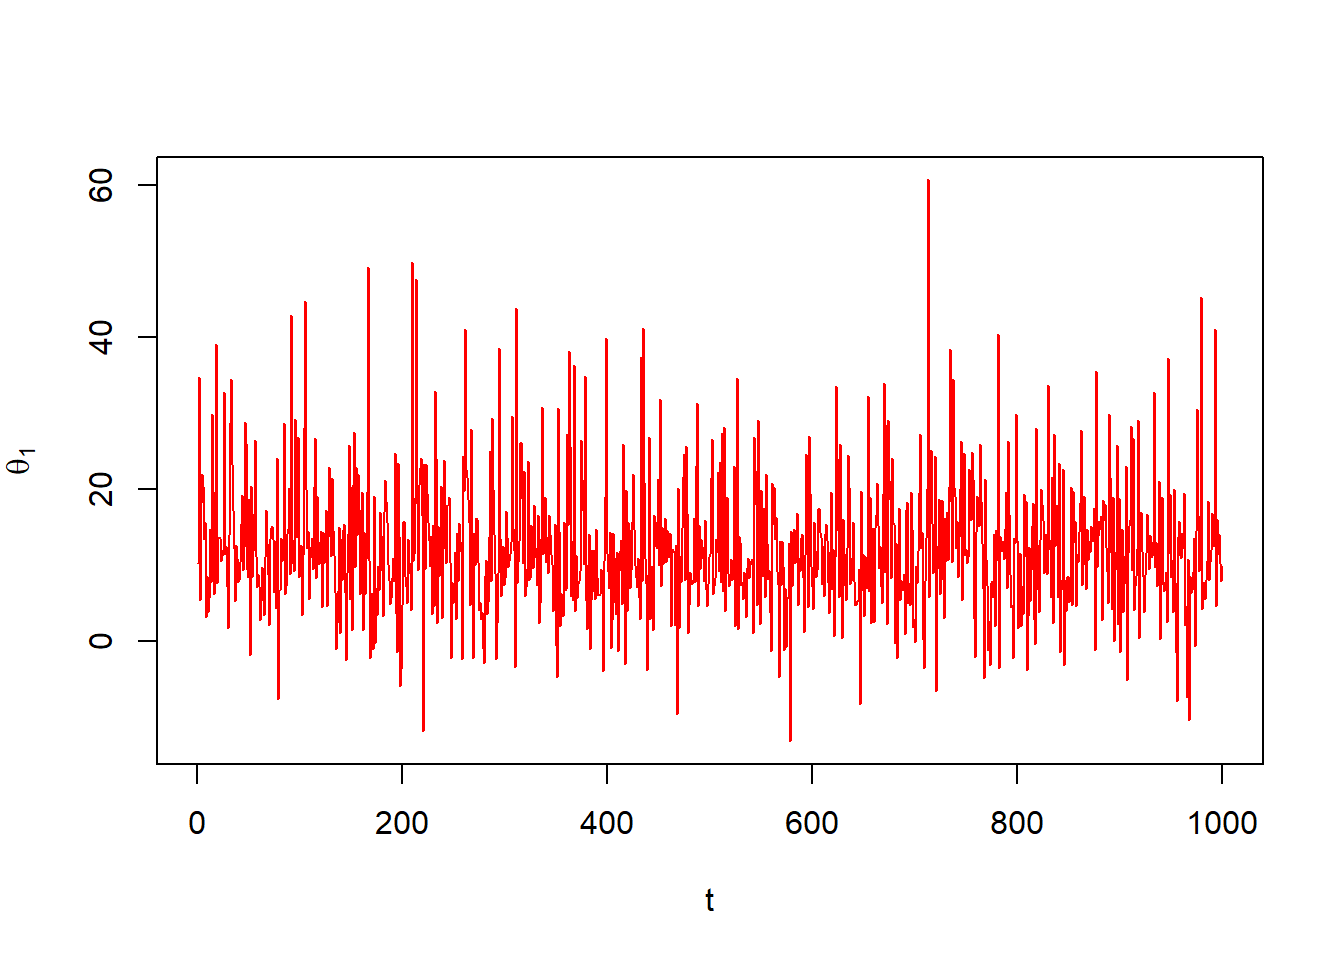
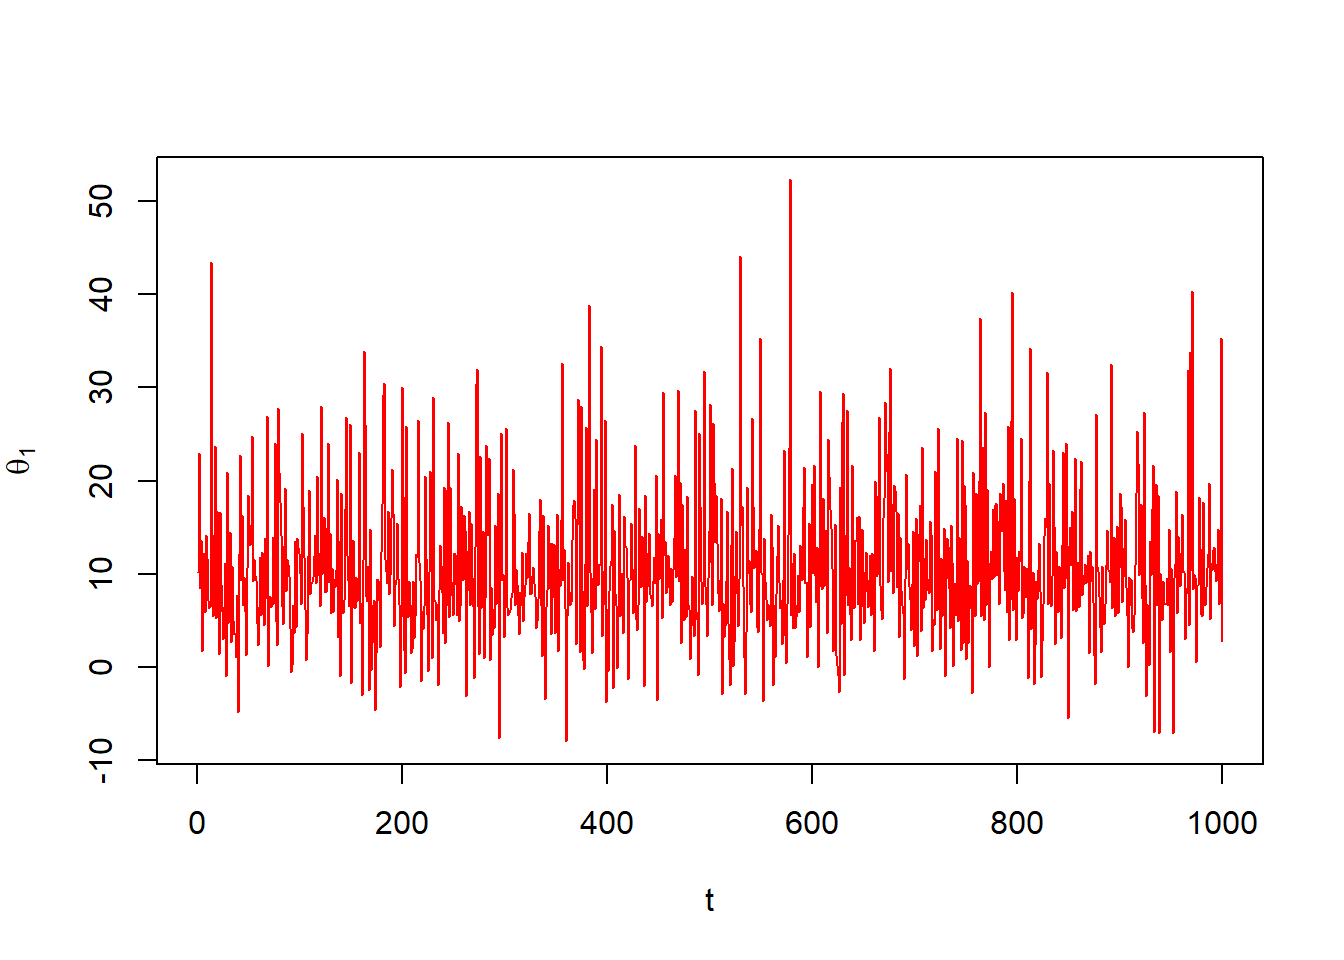
Fix some bugs

diff --git a/docs/index.html b/docs/index.html
@@ -257,13 +257,13 @@ X_i \sim \text{Normal}(\mu,\sigma^2)
 <div class="cell">
 <div class="sourceCode cell-code" id="cb1"><pre class="sourceCode r code-with-copy"><code class="sourceCode r"><span id="cb1-1"><a href="#cb1-1" aria-hidden="true" tabindex="-1"></a>model{</span>
 <span id="cb1-2"><a href="#cb1-2" aria-hidden="true" tabindex="-1"></a>  <span class="cf">for</span> (i <span class="cf">in</span> <span class="dv">1</span><span class="sc">:</span><span class="dv">20</span>){</span>
-<span id="cb1-3"><a href="#cb1-3" aria-hidden="true" tabindex="-1"></a>    x[i] <span class="sc">~</span> <span class="fu">dnorm</span> (mu[<span class="dv">1</span>], prec[<span class="dv">1</span>])</span>
+<span id="cb1-3"><a href="#cb1-3" aria-hidden="true" tabindex="-1"></a>    x[i] <span class="sc">~</span> <span class="fu">dnorm</span> (mu, prec)</span>
 <span id="cb1-4"><a href="#cb1-4" aria-hidden="true" tabindex="-1"></a>  }</span>
 <span id="cb1-5"><a href="#cb1-5" aria-hidden="true" tabindex="-1"></a>  </span>
-<span id="cb1-6"><a href="#cb1-6" aria-hidden="true" tabindex="-1"></a>  mu[<span class="dv">1</span>] <span class="sc">~</span> <span class="fu">dnorm</span> (<span class="dv">0</span>, <span class="fl">0.0001</span>)</span>
-<span id="cb1-7"><a href="#cb1-7" aria-hidden="true" tabindex="-1"></a>  prec[<span class="dv">1</span>] <span class="sc">~</span> <span class="fu">dgamma</span> (<span class="fl">0.001</span>, <span class="fl">0.001</span>)</span>
+<span id="cb1-6"><a href="#cb1-6" aria-hidden="true" tabindex="-1"></a>  mu <span class="sc">~</span> <span class="fu">dnorm</span> (<span class="dv">0</span>, <span class="fl">0.0001</span>)</span>
+<span id="cb1-7"><a href="#cb1-7" aria-hidden="true" tabindex="-1"></a>  prec <span class="sc">~</span> <span class="fu">dgamma</span> (<span class="fl">0.001</span>, <span class="fl">0.001</span>)</span>
 <span id="cb1-8"><a href="#cb1-8" aria-hidden="true" tabindex="-1"></a>  </span>
-<span id="cb1-9"><a href="#cb1-9" aria-hidden="true" tabindex="-1"></a>  s2[<span class="dv">1</span>] <span class="ot">&lt;-</span> <span class="dv">1</span><span class="sc">/</span>prec[<span class="dv">1</span>]</span>
+<span id="cb1-9"><a href="#cb1-9" aria-hidden="true" tabindex="-1"></a>  s2 <span class="ot">&lt;-</span> <span class="dv">1</span><span class="sc">/</span>prec</span>
 <span id="cb1-10"><a href="#cb1-10" aria-hidden="true" tabindex="-1"></a>}</span>
 <span id="cb1-11"><a href="#cb1-11" aria-hidden="true" tabindex="-1"></a></span>
 <span id="cb1-12"><a href="#cb1-12" aria-hidden="true" tabindex="-1"></a><span class="fu">list</span>(<span class="at">x =</span> <span class="fu">c</span>(<span class="fl">6.62</span>, <span class="fl">6.71</span>, <span class="fl">5.07</span>, <span class="fl">4.39</span>, <span class="fl">5.68</span>, <span class="fl">3.94</span>, <span class="fl">5.83</span>, <span class="fl">2.31</span>, <span class="fl">3.60</span>, <span class="fl">4.64</span>,</span>
@@ -422,6 +422,9 @@ y_j|\theta_j, \sigma_j^2 \sim \text{Normal}(\theta_j, \sigma_j^2=1/\tau_j)
 <span id="cb7-6"><a href="#cb7-6" aria-hidden="true" tabindex="-1"></a>                     <span class="at">n.chains =</span> <span class="dv">4</span>,</span>
 <span id="cb7-7"><a href="#cb7-7" aria-hidden="true" tabindex="-1"></a>                     <span class="at">n.iter =</span> <span class="dv">2000</span>,</span>
 <span id="cb7-8"><a href="#cb7-8" aria-hidden="true" tabindex="-1"></a>                     <span class="at">bugs.directory =</span> <span class="st">"c:/Program Files/WinBUGS14/"</span>)</span></code><button title="Copy to Clipboard" class="code-copy-button"><i class="bi"></i></button></pre></div>
+<div class="cell-output cell-output-stdout">
+<pre><code>Error in file(con, "wb") : cannot open the connection</code></pre>
+</div>
 </div>
 <p>Note: If you receive any error message about “Cannot open the connection” or “Permission denied”, please reopen Rstudio with Run as administrator.</p>
 </section>
@@ -429,58 +432,58 @@ y_j|\theta_j, \sigma_j^2 \sim \text{Normal}(\theta_j, \sigma_j^2=1/\tau_j)
 <h3 class="anchored" data-anchor-id="inference-on-mcmc-samples">Inference on MCMC samples</h3>
 <p>Just show some basic analysis. You can play more on it. Other packages like <code>posterior</code> and <code>mcmc</code> are also suggested.</p>
 <div class="cell">
-<div class="sourceCode cell-code" id="cb8"><pre class="sourceCode r code-with-copy"><code class="sourceCode r"><span id="cb8-1"><a href="#cb8-1" aria-hidden="true" tabindex="-1"></a><span class="co"># summary statistics</span></span>
-<span id="cb8-2"><a href="#cb8-2" aria-hidden="true" tabindex="-1"></a><span class="fu">print</span>(schools.sim)</span></code><button title="Copy to Clipboard" class="code-copy-button"><i class="bi"></i></button></pre></div>
+<div class="sourceCode cell-code" id="cb9"><pre class="sourceCode r code-with-copy"><code class="sourceCode r"><span id="cb9-1"><a href="#cb9-1" aria-hidden="true" tabindex="-1"></a><span class="co"># summary statistics</span></span>
+<span id="cb9-2"><a href="#cb9-2" aria-hidden="true" tabindex="-1"></a><span class="fu">print</span>(schools.sim)</span></code><button title="Copy to Clipboard" class="code-copy-button"><i class="bi"></i></button></pre></div>
 <div class="cell-output cell-output-stdout">
-<pre><code>Inference for Bugs model at "C:/Users/Xinwei/AppData/Local/Temp/RtmpeOkXxl/model61a436ea78ef.txt", fit using WinBUGS,
+<pre><code>Inference for Bugs model at "C:/Users/Xinwei/AppData/Local/Temp/RtmpW4ADVX/model48903bb1659.txt", fit using WinBUGS,
  4 chains, each with 2000 iterations (first 1000 discarded), n.thin = 4
  n.sims = 1000 iterations saved
             mean  sd  2.5%  25%  50%  75% 97.5% Rhat n.eff
-theta[1]    12.3 8.9  -2.4  7.0 11.2 16.0  34.4  1.0   450
-theta[2]     8.1 6.5  -5.0  4.3  8.3 12.4  20.2  1.0   960
-theta[3]     6.3 8.3 -11.3  1.4  7.1 11.6  21.2  1.0   350
-theta[4]     7.6 6.9  -6.2  3.1  8.0 12.0  21.6  1.0   640
-theta[5]     5.1 7.0 -11.3  0.6  5.8  9.9  16.9  1.0   230
-theta[6]     6.1 7.3  -9.0  1.6  6.7 10.9  19.7  1.0   970
-theta[7]    11.3 7.1  -1.4  6.5 10.9 15.2  28.5  1.0  1000
-theta[8]     9.0 8.4  -7.3  4.2  8.9 13.5  26.9  1.0  1000
-mu.theta     8.4 5.4  -2.7  5.3  8.5 11.5  19.3  1.0  1000
-sigma.theta  7.5 5.6   0.4  3.4  6.2 10.5  21.1  1.1    64
-deviance    60.5 2.3  57.1 59.0 60.1 61.5  66.1  1.0  1000
+theta[1]    10.8 7.8  -1.9  6.2  9.3 14.4  29.5  1.0  1000
+theta[2]     7.7 5.7  -3.2  4.1  7.6 11.0  20.0  1.0   280
+theta[3]     6.1 7.4 -11.5  2.6  6.7 10.0  19.6  1.0   250
+theta[4]     7.5 6.0  -5.0  4.0  7.3 10.7  19.9  1.0   260
+theta[5]     5.2 6.1  -9.1  1.7  6.4  9.3  16.0  1.0   130
+theta[6]     6.0 6.2  -7.5  2.2  6.5  9.8  18.3  1.0   110
+theta[7]     9.9 6.5  -0.6  5.9  9.3 13.2  25.5  1.0   440
+theta[8]     8.3 7.4  -4.8  4.3  8.0 11.6  26.1  1.0   550
+mu.theta     7.7 4.9  -1.7  5.0  7.5 10.3  18.4  1.0   190
+sigma.theta  5.8 5.4   0.1  1.9  4.4  8.3  20.1  1.1    48
+deviance    60.2 1.9  57.1 59.1 59.8 61.2  64.9  1.0   760
 
 For each parameter, n.eff is a crude measure of effective sample size,
 and Rhat is the potential scale reduction factor (at convergence, Rhat=1).
 
 DIC info (using the rule, pD = Dbar-Dhat)
-pD = 3.1 and DIC = 63.6
+pD = 2.4 and DIC = 62.6
 DIC is an estimate of expected predictive error (lower deviance is better).</code></pre>
 </div>
-<div class="sourceCode cell-code" id="cb10"><pre class="sourceCode r code-with-copy"><code class="sourceCode r"><span id="cb10-1"><a href="#cb10-1" aria-hidden="true" tabindex="-1"></a><span class="fu">plot</span>(schools.sim)</span></code><button title="Copy to Clipboard" class="code-copy-button"><i class="bi"></i></button></pre></div>
+<div class="sourceCode cell-code" id="cb11"><pre class="sourceCode r code-with-copy"><code class="sourceCode r"><span id="cb11-1"><a href="#cb11-1" aria-hidden="true" tabindex="-1"></a><span class="fu">plot</span>(schools.sim)</span></code><button title="Copy to Clipboard" class="code-copy-button"><i class="bi"></i></button></pre></div>
 <div class="cell-output-display">
 <p><img src="index_files/figure-html/unnamed-chunk-7-1.png" class="img-fluid" width="672"></p>
 </div>
-<div class="sourceCode cell-code" id="cb11"><pre class="sourceCode r code-with-copy"><code class="sourceCode r"><span id="cb11-1"><a href="#cb11-1" aria-hidden="true" tabindex="-1"></a><span class="co"># time series plot</span></span>
-<span id="cb11-2"><a href="#cb11-2" aria-hidden="true" tabindex="-1"></a><span class="fu">plot</span>(schools.sim<span class="sc">$</span>sims.list<span class="sc">$</span>theta[,<span class="dv">1</span>]<span class="sc">~</span><span class="fu">c</span>(<span class="dv">1</span><span class="sc">:</span>schools.sim<span class="sc">$</span>n.sims), </span>
-<span id="cb11-3"><a href="#cb11-3" aria-hidden="true" tabindex="-1"></a>     <span class="at">type =</span> <span class="st">"l"</span>, </span>
-<span id="cb11-4"><a href="#cb11-4" aria-hidden="true" tabindex="-1"></a>     <span class="at">col =</span> <span class="st">"red"</span>, </span>
-<span id="cb11-5"><a href="#cb11-5" aria-hidden="true" tabindex="-1"></a>     <span class="at">xlab =</span> <span class="st">"t"</span>,</span>
-<span id="cb11-6"><a href="#cb11-6" aria-hidden="true" tabindex="-1"></a>     <span class="at">ylab =</span> <span class="fu">expression</span>(theta[<span class="dv">1</span>]))</span></code><button title="Copy to Clipboard" class="code-copy-button"><i class="bi"></i></button></pre></div>
+<div class="sourceCode cell-code" id="cb12"><pre class="sourceCode r code-with-copy"><code class="sourceCode r"><span id="cb12-1"><a href="#cb12-1" aria-hidden="true" tabindex="-1"></a><span class="co"># time series plot</span></span>
+<span id="cb12-2"><a href="#cb12-2" aria-hidden="true" tabindex="-1"></a><span class="fu">plot</span>(schools.sim<span class="sc">$</span>sims.list<span class="sc">$</span>theta[,<span class="dv">1</span>]<span class="sc">~</span><span class="fu">c</span>(<span class="dv">1</span><span class="sc">:</span>schools.sim<span class="sc">$</span>n.sims), </span>
+<span id="cb12-3"><a href="#cb12-3" aria-hidden="true" tabindex="-1"></a>     <span class="at">type =</span> <span class="st">"l"</span>, </span>
+<span id="cb12-4"><a href="#cb12-4" aria-hidden="true" tabindex="-1"></a>     <span class="at">col =</span> <span class="st">"red"</span>, </span>
+<span id="cb12-5"><a href="#cb12-5" aria-hidden="true" tabindex="-1"></a>     <span class="at">xlab =</span> <span class="st">"t"</span>,</span>
+<span id="cb12-6"><a href="#cb12-6" aria-hidden="true" tabindex="-1"></a>     <span class="at">ylab =</span> <span class="fu">expression</span>(theta[<span class="dv">1</span>]))</span></code><button title="Copy to Clipboard" class="code-copy-button"><i class="bi"></i></button></pre></div>
 <div class="cell-output-display">
 <p><img src="index_files/figure-html/unnamed-chunk-7-2.png" class="img-fluid" width="672"></p>
 </div>
-<div class="sourceCode cell-code" id="cb12"><pre class="sourceCode r code-with-copy"><code class="sourceCode r"><span id="cb12-1"><a href="#cb12-1" aria-hidden="true" tabindex="-1"></a><span class="co"># density for theta_1</span></span>
-<span id="cb12-2"><a href="#cb12-2" aria-hidden="true" tabindex="-1"></a><span class="fu">plot</span>(<span class="fu">density</span>(schools.sim<span class="sc">$</span>sims.list<span class="sc">$</span>theta[,<span class="dv">1</span>]))</span></code><button title="Copy to Clipboard" class="code-copy-button"><i class="bi"></i></button></pre></div>
+<div class="sourceCode cell-code" id="cb13"><pre class="sourceCode r code-with-copy"><code class="sourceCode r"><span id="cb13-1"><a href="#cb13-1" aria-hidden="true" tabindex="-1"></a><span class="co"># density for theta_1</span></span>
+<span id="cb13-2"><a href="#cb13-2" aria-hidden="true" tabindex="-1"></a><span class="fu">plot</span>(<span class="fu">density</span>(schools.sim<span class="sc">$</span>sims.list<span class="sc">$</span>theta[,<span class="dv">1</span>]))</span></code><button title="Copy to Clipboard" class="code-copy-button"><i class="bi"></i></button></pre></div>
 <div class="cell-output-display">
 <p><img src="index_files/figure-html/unnamed-chunk-7-3.png" class="img-fluid" width="672"></p>
 </div>
-<div class="sourceCode cell-code" id="cb13"><pre class="sourceCode r code-with-copy"><code class="sourceCode r"><span id="cb13-1"><a href="#cb13-1" aria-hidden="true" tabindex="-1"></a><span class="co"># More inference</span></span>
-<span id="cb13-2"><a href="#cb13-2" aria-hidden="true" tabindex="-1"></a><span class="co"># Probability calculation</span></span>
-<span id="cb13-3"><a href="#cb13-3" aria-hidden="true" tabindex="-1"></a><span class="fu">mean</span>(schools.sim<span class="sc">$</span>sims.list<span class="sc">$</span>theta[,<span class="dv">1</span>]<span class="sc">&gt;</span><span class="dv">10</span>)</span></code><button title="Copy to Clipboard" class="code-copy-button"><i class="bi"></i></button></pre></div>
+<div class="sourceCode cell-code" id="cb14"><pre class="sourceCode r code-with-copy"><code class="sourceCode r"><span id="cb14-1"><a href="#cb14-1" aria-hidden="true" tabindex="-1"></a><span class="co"># More inference</span></span>
+<span id="cb14-2"><a href="#cb14-2" aria-hidden="true" tabindex="-1"></a><span class="co"># Probability calculation</span></span>
+<span id="cb14-3"><a href="#cb14-3" aria-hidden="true" tabindex="-1"></a><span class="fu">mean</span>(schools.sim<span class="sc">$</span>sims.list<span class="sc">$</span>theta[,<span class="dv">1</span>]<span class="sc">&gt;</span><span class="dv">10</span>)</span></code><button title="Copy to Clipboard" class="code-copy-button"><i class="bi"></i></button></pre></div>
 <div class="cell-output cell-output-stdout">
-<pre><code>[1] 0.571</code></pre>
+<pre><code>[1] 0.447</code></pre>
 </div>
-<div class="sourceCode cell-code" id="cb15"><pre class="sourceCode r code-with-copy"><code class="sourceCode r"><span id="cb15-1"><a href="#cb15-1" aria-hidden="true" tabindex="-1"></a><span class="co"># Compare the treatment effect</span></span>
-<span id="cb15-2"><a href="#cb15-2" aria-hidden="true" tabindex="-1"></a><span class="fu">mean</span>(schools.sim<span class="sc">$</span>sims.list<span class="sc">$</span>theta[,<span class="dv">1</span>])<span class="sc">&gt;</span><span class="fu">mean</span>(schools.sim<span class="sc">$</span>sims.list<span class="sc">$</span>theta[,<span class="dv">3</span>])</span></code><button title="Copy to Clipboard" class="code-copy-button"><i class="bi"></i></button></pre></div>
+<div class="sourceCode cell-code" id="cb16"><pre class="sourceCode r code-with-copy"><code class="sourceCode r"><span id="cb16-1"><a href="#cb16-1" aria-hidden="true" tabindex="-1"></a><span class="co"># Compare the treatment effect</span></span>
+<span id="cb16-2"><a href="#cb16-2" aria-hidden="true" tabindex="-1"></a><span class="fu">mean</span>(schools.sim<span class="sc">$</span>sims.list<span class="sc">$</span>theta[,<span class="dv">1</span>])<span class="sc">&gt;</span><span class="fu">mean</span>(schools.sim<span class="sc">$</span>sims.list<span class="sc">$</span>theta[,<span class="dv">3</span>])</span></code><button title="Copy to Clipboard" class="code-copy-button"><i class="bi"></i></button></pre></div>
 <div class="cell-output cell-output-stdout">
 <pre><code>[1] TRUE</code></pre>
 </div>
